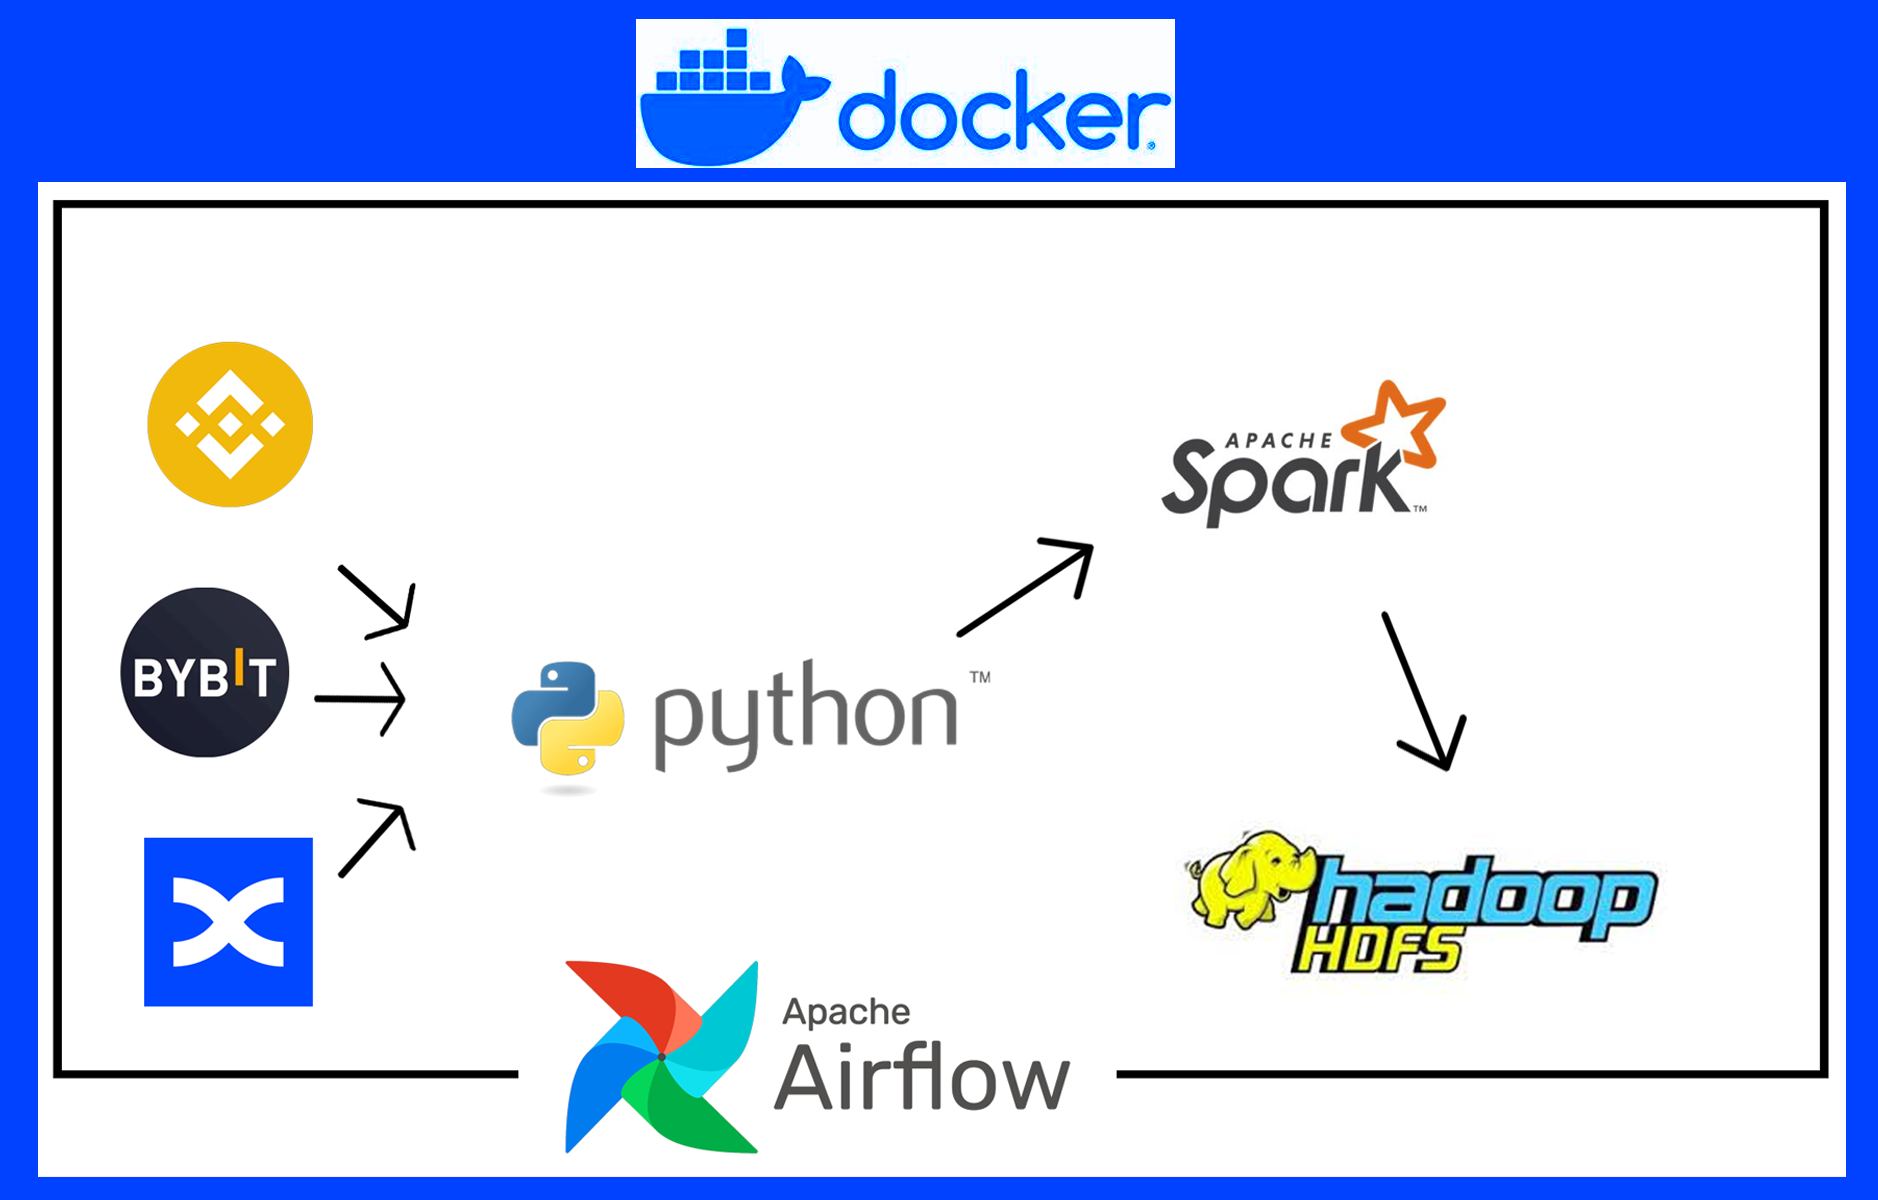
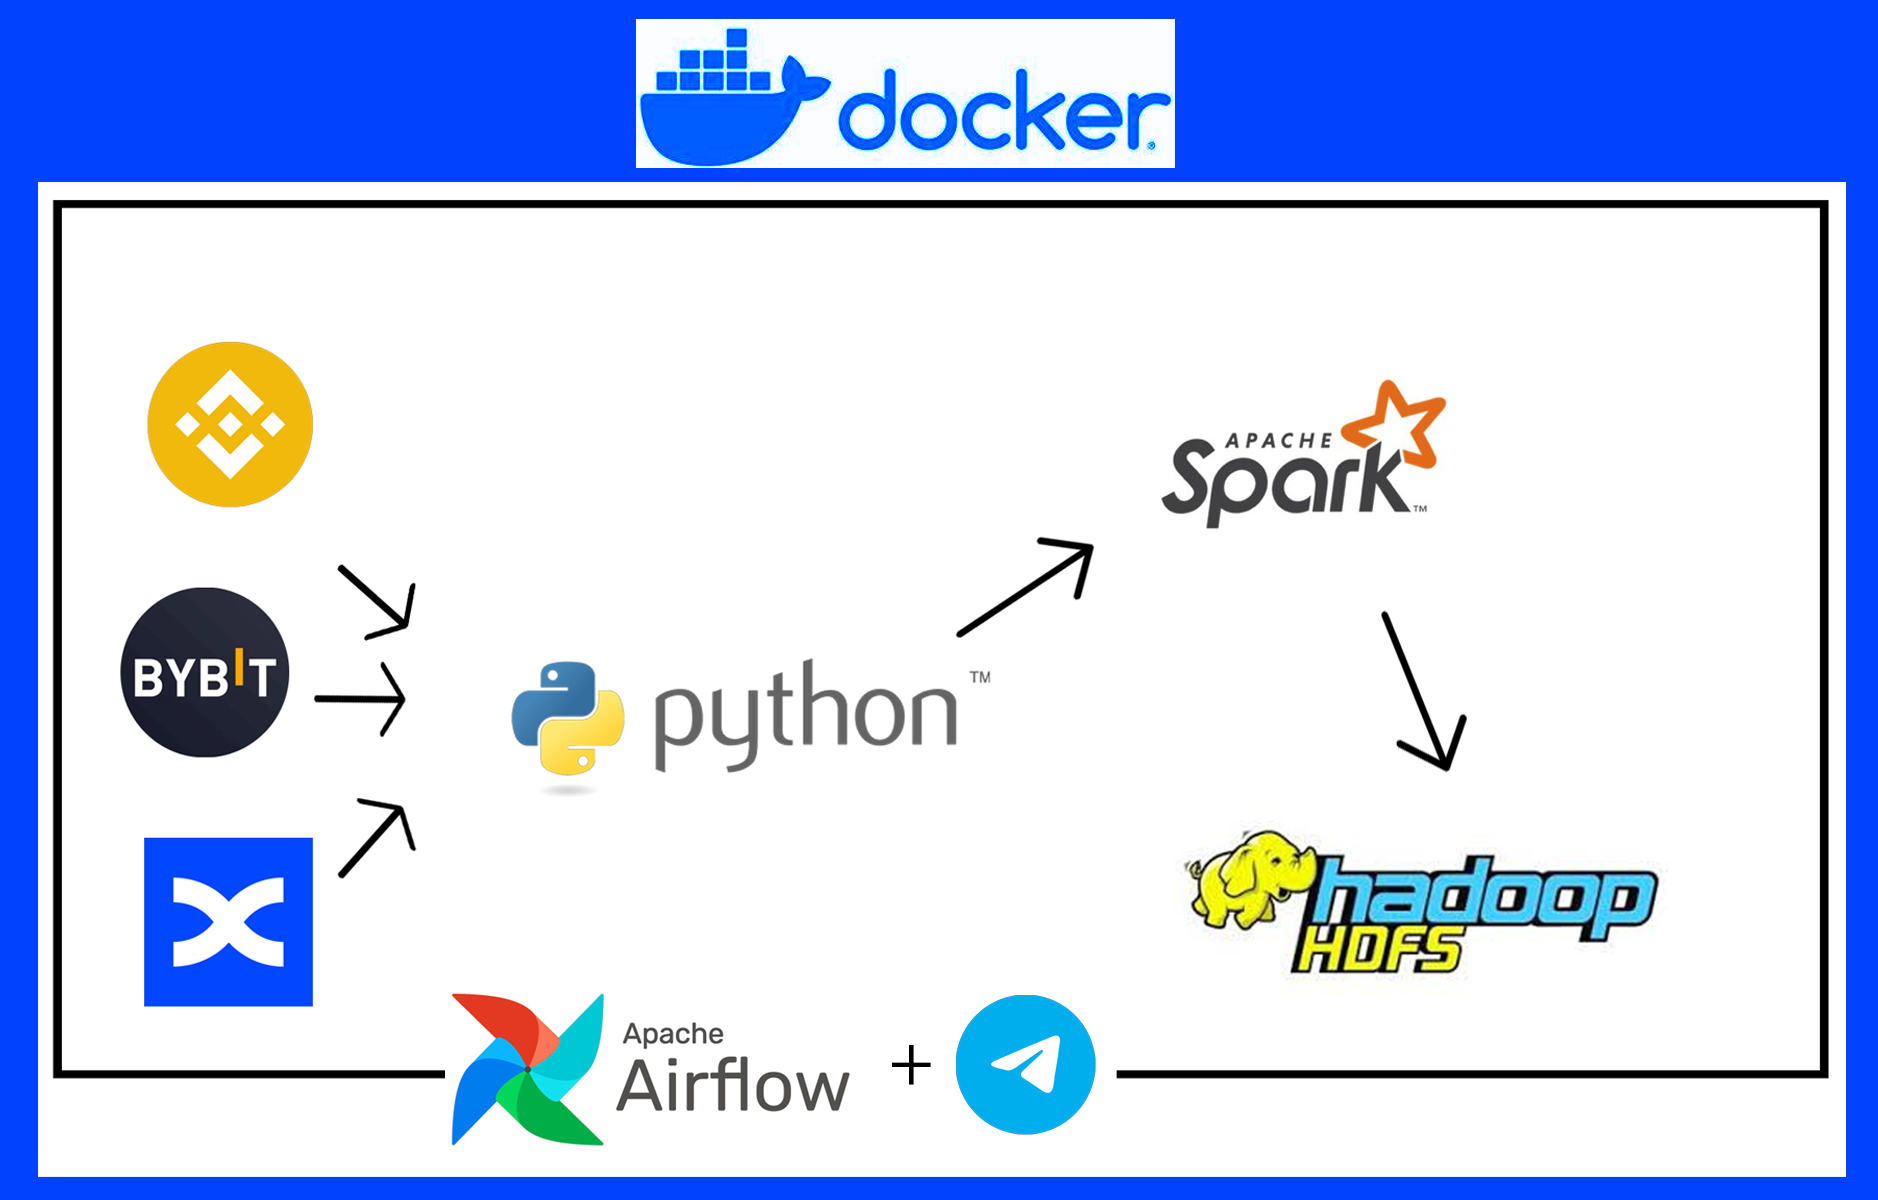
added telegram notification for dag

Changed region(s): [[0.2162, 0.8017, 0.5868, 0.9867]]

diff --git a/dags/crypto_dag.py b/dags/crypto_dag.py
@@ -3,14 +3,20 @@ from airflow import DAG
 from airflow.operators.python import PythonOperator
 from airflow.operators.bash_operator import BashOperator
 from airflow.providers.apache.spark.operators.spark_submit import SparkSubmitOperator
+from airflow.providers.telegram.operators.telegram import TelegramOperator
+from airflow.models import Variable
+from airflow.utils.dates import days_ago
+
 from datetime import datetime
 
+chat_id = Variable.get("CHAT_ID")
 
 dag = DAG(
     dag_id = "crypto_sparking_flow",
     default_args = {
         "owner": "Kiet Nguyen",
-        "start_date": datetime(2024, 6, 29)
+        "start_date": days_ago(1),
+        # "on_failure_callback":
     },
     schedule_interval = "30 0 * * *"
 )
@@ -48,4 +54,18 @@ end = PythonOperator(
     dag=dag
 )
 
-start >> [fetch_binance, fetch_bybit, fetch_bingX] >> end
+send_message = TelegramOperator(
+        task_id='send_message',
+        telegram_conn_id='telegram-conn',  # Ensure this connection is set up in Airflow
+        chat_id= chat_id,
+        text = f'''
+        **Hello from Airflow! 
+        - Dag: crypto_sparking_flow
+        - Time: {datetime.today()}
+        - FAILURE TO EXECUTE.''',
+
+        dag=dag,
+        trigger_rule='one_failed'
+    )
+
+[start >> [fetch_binance, fetch_bybit, fetch_bingX] >> end] >> send_message

diff --git a/dags/telegram_test.py b/dags/telegram_test.py
@@ -1,0 +1,47 @@
+from airflow import DAG
+from airflow.providers.telegram.operators.telegram import TelegramOperator
+from airflow.operators.python_operator import PythonOperator
+from airflow.utils.dates import days_ago
+
+# Retrieve the chat ID from Airflow Variables
+chat_id = '-4275272161'
+
+# Default arguments for the DAG
+default_args = {
+    'owner': 'airflow',
+    'depends_on_past': False,
+    'email_on_failure': True,
+    'email_on_retry': False,
+    # 'retries': 1,
+}
+
+def failing_task():
+    return True
+
+# Define the DAG
+dag = DAG('telegram_notification_dag',
+         default_args=default_args,
+         schedule_interval='@daily',
+         start_date=days_ago(1),
+         catchup=False)
+
+    # Task to send a message using the TelegramOperator
+send_message = TelegramOperator(
+        task_id='send_message',
+        telegram_conn_id='telegram-conn',  # Ensure this connection is set up in Airflow
+        chat_id=chat_id,
+        text = '''
+        Hello from Airflow! 
+        Dag: crypto_sparking_flow
+        FAILURE TO EXECUTE.''',
+
+        dag=dag,
+        trigger_rule='one_failed'
+    )
+
+fail_task = PythonOperator(
+        task_id="failing_task", python_callable=failing_task, dag=dag
+    )
+
+
+[fail_task] >> send_message

diff --git a/readme.md b/readme.md
@@ -60,13 +60,25 @@ Hadoop HDFS
 
 ![connection-menu](./assets/photos/connection-menu.png)
 
-2. Add Spark connection:
+2. Add Spark and Telegram connection:
 
 ![connection-add](./assets/photos/add-spark-conn.png)
 
+![connections](./assets/photos/connections.png)
+
+Variable for telegram connection
+
+![vars](./assets/photos/vars.png)
+
 3. Run DAG:
 
-![run-dag](./assets/photos/run-dag.png)
+![run-dag](./assets/photos/etl_sucessful_running.png)
+
+Failure situation -> notify to telegram:
+
+![fail running](./assets/photos/sent_noti.png)
+
+![fail running](./assets/photos/messages.png)
 
 4. Check the spark application in the Spark Master web UI (http://localhost:9090)
 
